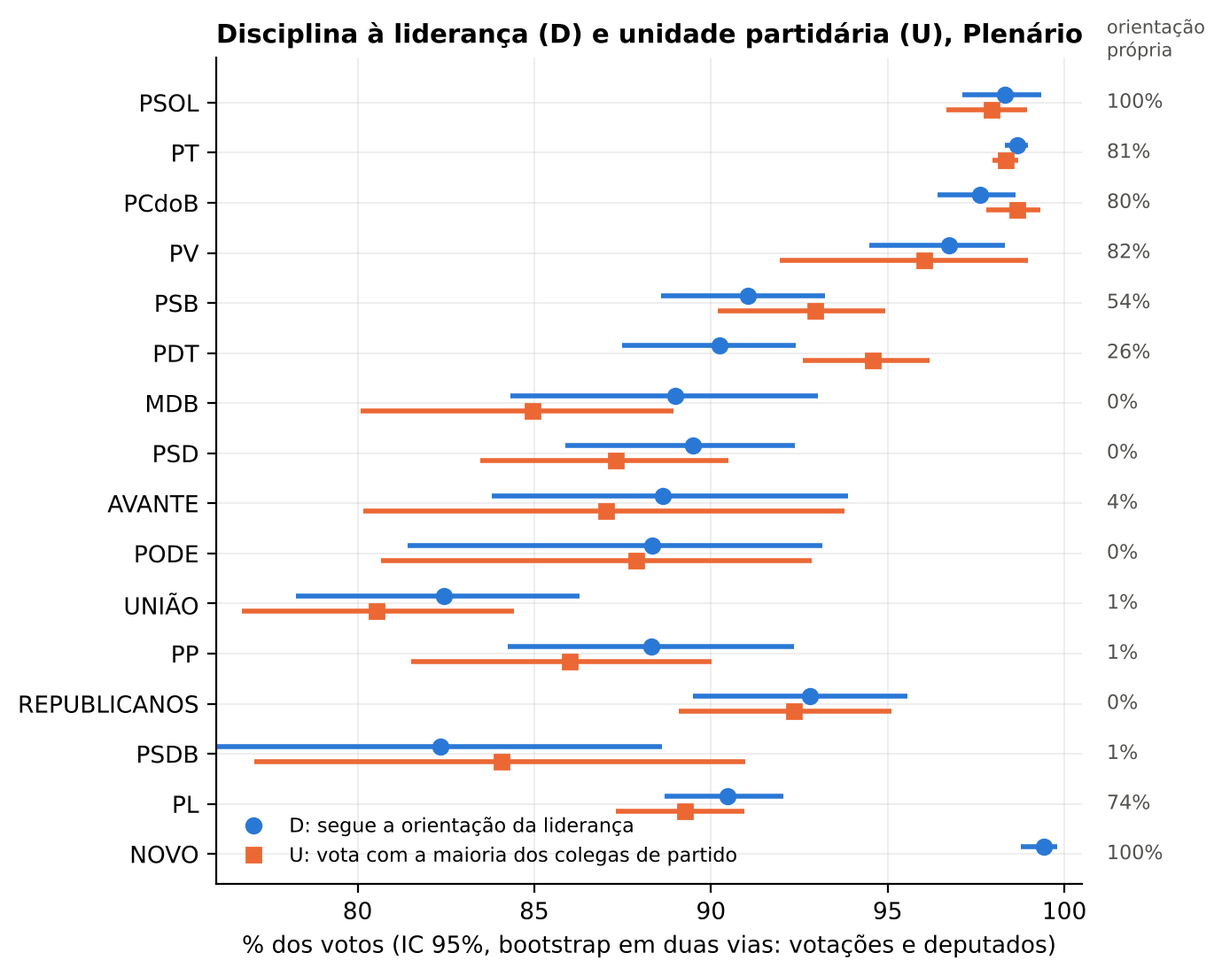
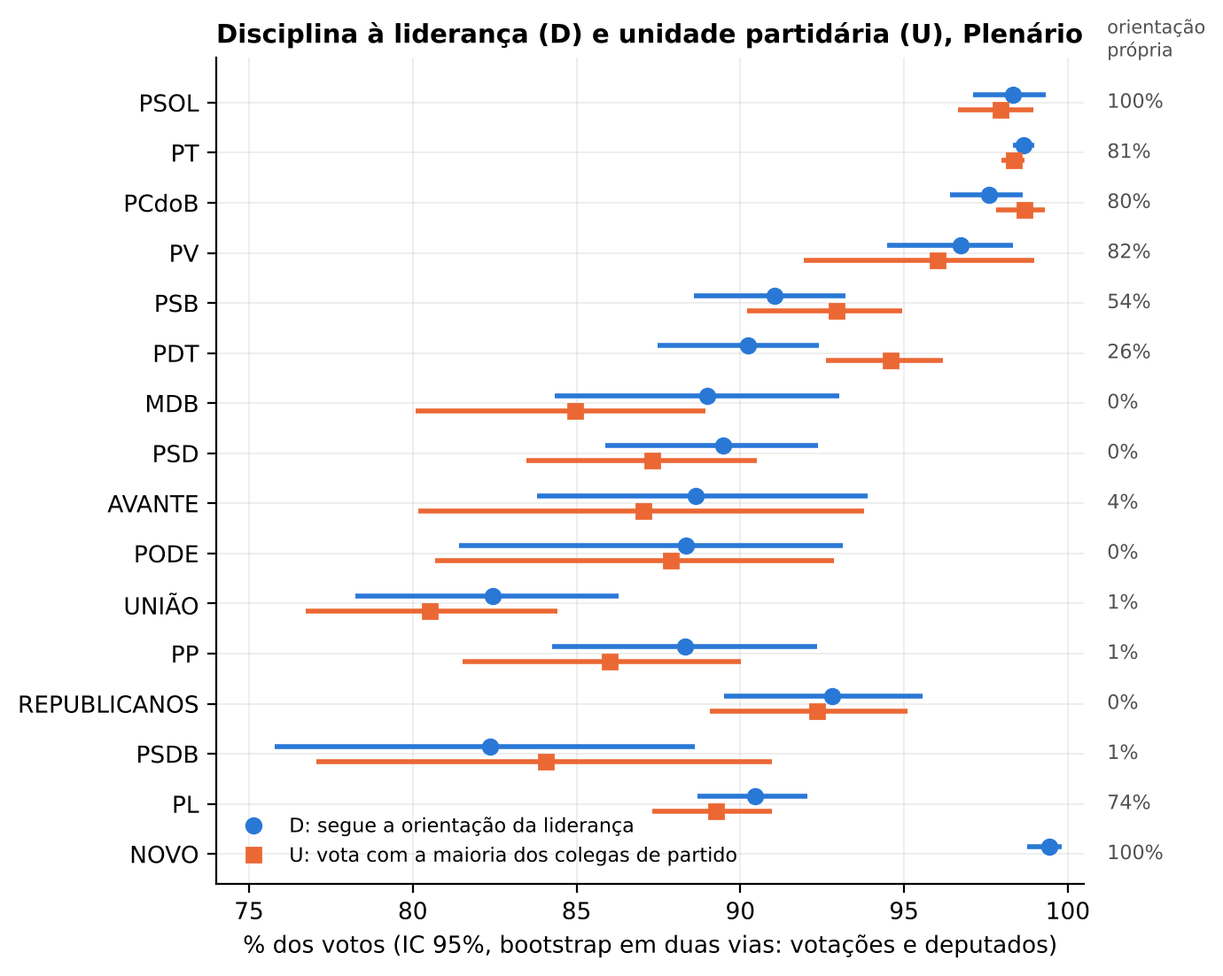
Artigo 2: correções da rodada 2 do stage 4.5 (controles da coorte, eixo da Fig. 2, definições e remissões)
Claude-Session: https://claude.ai/code/session_017sdP2rNFympvPWcSDWQFN7

diff --git a/artigos/02-disciplina-intrapartidaria/analise.py b/artigos/02-disciplina-intrapartidaria/analise.py
@@ -1352,7 +1352,9 @@ def estudo_evento(base, dep):
     # (Sun e Abraham, 2021: com adoção escalonada, tratados antigos não devem servir de controle;
     # aqui os demais trocadores são retirados da amostra e os controles são os que nunca trocaram)
     ind26 = ind[(ind >= "2026-03-01") & (ind < "2026-06-01")]
-    excl26 = set(ind.index) - set(ind26.index) | set(fus.index)
+    # controles da coorte: só quem nunca trocou individualmente (inclusive antes de abril de 2023)
+    todos_ind = set(trocas_partido().query("~fusao")["deputado_id"])
+    excl26 = (todos_ind | set(ind.index)) - set(ind26.index) | set(fus.index)
     num("ev_c26_n_coorte", len(ind26))
     versoes = [("", ind, fus, set()), ("_c26", ind26, fus.iloc[:0], excl26)]
     for suf, ind_v, fus_v, excl in versoes:
@@ -2063,7 +2065,7 @@ def fig_disciplina(tab):
         ax.text(101.2, yy, f"{pct(r['share_propria'], 0)}%", va="center", ha="left", fontsize=8, color=COR["texto2"])
     ax.text(101.2, len(t) - 0.2, "orientação\nprópria", fontsize=7.5, color=COR["texto2"], va="bottom")
     ax.set_yticks(y, t.index)
-    ax.set_xlim(76, 100.5)
+    ax.set_xlim(min(76, np.floor(np.nanmin(t[["D_lo2", "U_lo2"]].to_numpy()) * 100) - 1), 100.5)
     ax.set_xlabel("% dos votos (IC 95%, bootstrap em duas vias: votações e deputados)")
     ax.legend(loc="lower left", fontsize=8)
     ax.set_title("Disciplina à liderança (D) e unidade partidária (U), Plenário")

diff --git a/artigos/02-disciplina-intrapartidaria/artigo_fonte.md b/artigos/02-disciplina-intrapartidaria/artigo_fonte.md
@@ -20,7 +20,7 @@ A contribuição de estrutura é um teste fora da amostra. Comparamos uma sequê
 
 ## 2. Literatura e expectativas
 
-**Disciplina, coesão e agenda.** O índice de Rice (Rice, 1925) mede a coesão de um grupo numa votação. Ele é inflado em grupos pequenos (Desposato, 2005) e confunde coesão com consenso, o que leva a restringir a análise a votações disputadas ou a ponderar pela disputa. Carey (2007; 2009) mostra que a unidade de voto é menor onde "principais concorrentes" — eleitores, governadores, o presidente — disputam a lealdade do legislador; seguindo Krehbiel (1993), distinguimos *unidade* (votar junto) de *disciplina* (votar com o líder contra a própria preferência). No Brasil, Figueiredo e Limongi (1999) atribuem a disciplina à centralização dos trabalhos no Colégio de Líderes combinada aos poderes de agenda do Executivo, como medidas provisórias e pedidos de urgência (resumo de fontes secundárias; a lista completa dos instrumentos no original fica [verificar]). Amorim Neto, Cox e McCubbins (2003) analisam o poder de agenda das coalizões na Câmara. Pereira e Mueller (2004) ligam o voto com o Governo à execução de emendas orçamentárias. Cheibub, Figueiredo e Limongi (2009) discutem partidos e governadores como determinantes do comportamento legislativo. Nicolau (2000) documenta a disciplina no primeiro governo Fernando Henrique. A coesão observada é também produto da agenda (Cox e McCubbins, 2005) e da seleção de quais votações são nominais (Carrubba, Gabel e Hug, 2008): só {{pct:share_plen_nominais}}% das {{int:n_votacoes_plen_todas}} votações de Plenário da legislatura tiveram votos nominais.
+**Disciplina, coesão e agenda.** O índice de Rice (Rice, 1925) mede a coesão de um grupo numa votação. Ele é inflado em grupos pequenos (Desposato, 2005) e confunde coesão com consenso, o que leva a restringir a análise a votações disputadas ou a ponderar pela disputa. Carey (2007; 2009) mostra que a unidade de voto é menor onde "principais concorrentes" — eleitores, governadores, o presidente — disputam a lealdade do legislador; seguindo Krehbiel (1993), distinguimos *unidade* (votar junto) de *disciplina* no sentido estrito (votar com o líder contra a própria preferência). A medida D adiante é adesão à orientação; só o excesso de lealdade da seção 5.8 aproxima o componente contra a preferência. No Brasil, Figueiredo e Limongi (1999) atribuem a disciplina à centralização dos trabalhos no Colégio de Líderes combinada aos poderes de agenda do Executivo, como medidas provisórias e pedidos de urgência (resumo de fontes secundárias; a lista completa dos instrumentos no original fica [verificar]). Amorim Neto, Cox e McCubbins (2003) analisam o poder de agenda das coalizões na Câmara. Pereira e Mueller (2004) ligam o voto com o Governo à execução de emendas orçamentárias. Cheibub, Figueiredo e Limongi (2009) discutem partidos e governadores como determinantes do comportamento legislativo. Nicolau (2000) documenta a disciplina no primeiro governo Fernando Henrique. A coesão observada é também produto da agenda (Cox e McCubbins, 2005) e da seleção de quais votações são nominais (Carrubba, Gabel e Hug, 2008): só {{pct:share_plen_nominais}}% das {{int:n_votacoes_plen_todas}} votações de Plenário da legislatura tiveram votos nominais.
 
 **Preferência ou partido.** Krehbiel (1993) argumenta que coesão não prova influência do partido. Snyder e Groseclose (2000) comparam votações disputadas e lopsided para estimar a pressão partidária, e McCarty, Poole e Rosenthal (2001) modelam linhas de corte por partido. Clinton, Jackman e Rivers (2004) formalizam a estimação de pontos ideais; Bafumi et al. (2005) e Lauderdale (2010) tratam de identificação e de votantes imprevisíveis. Zucco (2009) e Zucco e Lauderdale (2011) mostram que o comportamento dos deputados brasileiros responde a influências do Executivo além da ideologia; Power e Zucco (2009) fornecem âncoras de ideologia partidária. Minozzi e Volden (2013) estudam quem atende ao chamado do partido. Sobre trocas de partido, Desposato (2006) explica as migrações na Câmara por ambição e ideologia, Heller e Mershon (2005) as estudam na Itália, e Nokken (2000) estuda a dinâmica da lealdade e da defecção de legisladores no Congresso americano, inclusive dos que trocam de partido. Black (1948) e Krehbiel (1998) justificam olhar o mediano e os pivôs de maioria qualificada.
 
@@ -73,7 +73,7 @@ Usamos o estimador de pontos ideais do projeto (regressão logística bilinear p
 
 $$\Pr(y_{ij}=1)=\sigma\big(a_j + g_{pj} + \mathbf{b}_j^\top \mathbf{x}_{r}\big),\qquad \mathbf{x}_r=\mathbf{u}_{i}+\boldsymbol{\delta}_r,$$
 
-com penalidades gaussianas e excluídas as votações com minoria abaixo de 2,5%. O modelo **global** omite $g$. O **intrapartidário** inclui o efeito fixo partido×votação $g_{pj}$, que absorve a posição do partido em cada votação, e centra os pontos dentro de cada partido. A amostra tem {{int:irt_n_votos}} votos, {{int:irt_n_votacoes}} votações, {{int:irt_n_periodos}} períodos deputado×partido e {{int:irt_n_celulas}} células partido×votação, com mediana de {{d1:irt_celulas_mediana_votantes}} votantes por célula e {{pct0:irt_celulas_share_menos5}}% delas com menos de cinco.
+com penalidades gaussianas (as do estimador do projeto; $\lambda_d = 4$ para os desvios por período) e excluídas as votações com minoria abaixo de 2,5%. O modelo **global** omite $g$. O **intrapartidário** inclui o efeito fixo partido×votação $g_{pj}$, que absorve a posição do partido em cada votação, e centra os pontos dentro de cada partido. A amostra tem {{int:irt_n_votos}} votos, {{int:irt_n_votacoes}} votações, {{int:irt_n_periodos}} períodos deputado×partido e {{int:irt_n_celulas}} células partido×votação, com mediana de {{d1:irt_celulas_mediana_votantes}} votantes por célula e {{pct0:irt_celulas_share_menos5}}% delas com menos de cinco.
 
 ### 4.3 Ruído ou estrutura
 
@@ -82,7 +82,7 @@ Os modelos abaixo são comparados na previsão de votos retirados: validação c
 - **M0**: a regra "segue a orientação" (sem orientação, a maioria de treino do partido ou da votação), com probabilidade calibrada pelo acerto no treino; **M0c** calibra por partido e fonte.
 - **M1**: só $a_j+g_{pj}$, a posição coletiva do partido em cada votação, estimada com os votos dos colegas na mesma votação.
 - **M2**: M1 mais uma lealdade individual sem direção, $\sigma(z^{M1}+\rho_i d_{pj})$, com $d_{pj}=\pm1$ conforme a maioria de treino da célula.
-- **M2b**: lealdade por período com escala por votação, $\sigma(z^{M1}+s_j\rho_r d_{pj})$. Tem a mesma estrutura de parâmetros de M3, mas a direção do desvio é fixada como "contra a maioria do próprio partido".
+- **M2b**: lealdade por período com escala por votação, $\sigma(z^{M1}+s_j\rho_r d_{pj})$, com penalidades $\lambda_\rho = 1$ e $\lambda_s = 0{,}04$. Tem a mesma estrutura de parâmetros de M3, mas a direção do desvio é fixada como "contra a maioria do próprio partido".
 - **M3** e **M4**: o modelo intrapartidário com uma e duas dimensões. **M3L** acrescenta a M3 o termo $\rho_i d_{pj}$.
 - **M5**: o modelo global de duas dimensões, sem partido.
 
@@ -111,7 +111,7 @@ Os erros-padrão (EP) são agrupados por deputado e por votação (Cameron, Gelb
 
 ### 5.1 O que a orientação registrada mede
 
-A disciplina é de {{pct:disc_camada_própria}}% sob orientação própria, {{pct:disc_camada_bloco}}% sob bloco e {{pct:disc_camada_bloco inferido}}% sob bloco inferido. Para União, PP, PSD, MDB, REPUBLICANOS, PODE e PSDB, menos de 2% dos votos estão sob orientação do próprio partido (Figura 1, coluna à direita): o que se chama de disciplina partidária, nesses partidos, é disciplina ao líder do bloco.
+A disciplina é de {{pct:disc_camada_própria}}% sob orientação própria, {{pct:disc_camada_bloco}}% sob bloco e {{pct:disc_camada_bloco inferido}}% sob bloco inferido. Para União, PP, PSD, MDB, REPUBLICANOS, PODE e PSDB, menos de 2% dos votos estão sob orientação do próprio partido (Figura 2, coluna à direita): o que se chama de disciplina partidária, nesses partidos, é disciplina ao líder do bloco.
 
 O registro de 2025 é o caso extremo. Em D, a disciplina sobe para {{pct:disc_ano_2025}}% em 2025, contra {{pct:disc_ano_2023}}% em 2023, mas a cobertura de D cai a {{pct0:cobD_ano_2025}}%, contra {{pct0:cobD_ano_2023}}% (Figura 1). Nas votações do megabloco, o registro sempre traz as linhas de Governo, Maioria, Minoria e Oposição ({{int:reg_mb_linhas_oposicao}} linhas de Oposição em {{int:megabloco_n_votacoes}} votações), mas nenhuma linha própria do PL ou da federação do PT. As transcrições, porém, mostram esses partidos orientando: as orientações faladas cobrem {{int:fala_mb_votacoes}} das {{int:fala_mb_votacoes_total}} votações do megabloco. Orientação vazia, portanto, nem sempre quer dizer que a liderança não orientou; pode ser um limite do registro.
 
@@ -132,7 +132,7 @@ PL ({{pct:U_2025_PL}}% em 2025, contra {{pct:U_outros_PL}}%), PT e REPUBLICANOS 
 
 ### 5.2 Quanta disciplina
 
-A disciplina à liderança no Plenário é de {{pct:disc_geral}}% (IC 95%: {{pct:disc_geral_lo}}–{{pct:disc_geral_hi}}), e a unidade, de {{pct:unidade_geral}}% (Tabela 2, Figura 2).
+A disciplina à liderança no Plenário é de {{pct:disc_geral}}% (IC 95% por bootstrap de votações: {{pct:disc_geral_lo}}–{{pct:disc_geral_hi}}), e a unidade, de {{pct:unidade_geral}}% (Tabela 2, Figura 2).
 
 - **Extremo mais coeso:** PT, PSOL, PCdoB e NOVO votam quase sempre com a liderança, e os três primeiros, também com os colegas (NOVO não tem U) (U de {{pct:U_PT}}% no PT e {{pct:U_PSOL}}% no PSOL).
 - **Extremo menos coeso:** União (U {{pct:U_UNIÃO}}%) e PSDB ({{pct:U_PSDB}}%).
@@ -235,7 +235,7 @@ A variância das taxas brutas de desvio entre deputados é quase toda sinal: o r
 
 A Figura 6 mostra o estudo de evento para {{int:ev_n_trocadores_ind}} deputados com troca individual.
 
-- **Antes da troca:** na janela de referência, os futuros trocadores contrariam a maioria dos colegas em {{pct:ev_U_desvio_ref}}% dos votos. Nenhum coeficiente anterior se distingue de zero individualmente ({{pp:ev_U_ind:≤−13_coef}}, {{pp:ev_U_ind:−6 a −4_coef}} e {{pp:ev_U_ind:−3 a −1_coef}} pontos), mas o teste conjunto é limítrofe (p = {{d2:ev_U_pre_p}}). As estimativas pontuais sobem {{pp:ev_U_subida_pre}} pontos ao longo do ano anterior à troca: há uma pré-tendência fraca, compatível com saída anunciada.
+- **Antes da troca:** na janela de referência, os futuros trocadores contrariam a maioria dos colegas em {{pct:ev_U_desvio_ref}}% dos votos. Nenhum coeficiente anterior se distingue de zero individualmente ({{pp:ev_U_ind:≤−13_coef}}, {{pp:ev_U_ind:−6 a −4_coef}} e {{pp:ev_U_ind:−3 a −1_coef}} pontos), mas o teste conjunto é limítrofe (p = {{d2:ev_U_pre_p}}). A estimativa de −3 a −1 meses fica {{pp:ev_U_subida_pre}} pontos acima da de 13 meses ou mais antes: há uma pré-tendência fraca, compatível com saída anunciada.
 - **Depois da troca:** o desvio em relação à maioria dos novos colegas cai {{pp:ev_U_ind:0 a 3_negcoef}} pontos nos primeiros três meses (IC {{pp:ev_U_ind:0 a 3_neglo}}–{{pp:ev_U_ind:0 a 3_neghi}}) na versão com todas as trocas.
 - **Só a coorte da janela de 2026** ({{int:ev_c26_n_coorte}} deputados, com controles que nunca trocaram): a queda é de {{pp:ev_c26_U_ind:0 a 3_negcoef}} pontos (IC {{pp:ev_c26_U_ind:0 a 3_neglo}}–{{pp:ev_c26_U_ind:0 a 3_neghi}}), com teste conjunto de pré-tendência também limítrofe (p = {{d2:ev_c26_U_pre_p}}). É a estimativa preferível, porque evita usar trocadores antigos como controles; a da versão completa é maior. Em D, nessa coorte, a queda ({{pp:ev_c26_D_ind:0 a 3_negcoef}} pontos) não se distingue de zero.
 - **Fusões:** não servem de placebo. Em U, as bancadas pré-fusão nunca reuniam cinco colegas votando, e os coeficientes não são identificados.
@@ -290,7 +290,7 @@ A Tabela 8 refaz a disciplina sob sete variantes de medida. Sem as orientações
 
 ## 8. Discussão
 
-O primeiro achado é de medida. Na Câmara de 2023–2026, a orientação aplicável à maioria dos deputados do centro é a do bloco, e o registro da Câmara não guarda as orientações que os partidos dão em Plenário quando a bancada formal é um bloco. Em 2025, o resultado foi um registro quase vazio para a maior parte da Casa e uma disciplina "medida" que sobe justamente quando a unidade dos partidos de centro cai. Quem usa os dados públicos deve, por isso, estratificar pela fonte da orientação, reportar a cobertura e complementar o registro com uma medida que não dependa dele. Para a própria Câmara, registrar as orientações partidárias dentro dos blocos, que os líderes anunciam em Plenário, tornaria os dados abertos mais fiéis ao processo que pretendem descrever.
+O primeiro achado é de medida. Na Câmara de 2023–2026, a orientação aplicável à maioria dos deputados do centro é a do bloco, e o registro da Câmara não guarda as orientações que os partidos dão em Plenário quando a bancada formal é um bloco. Em 2025, o resultado foi um registro quase vazio para a maior parte da Casa e uma disciplina "medida" que sobe justamente quando a unidade de quatro partidos de centro cai. Quem usa os dados públicos deve, por isso, estratificar pela fonte da orientação, reportar a cobertura e complementar o registro com uma medida que não dependa dele. Para a própria Câmara, registrar as orientações partidárias dentro dos blocos, que os líderes anunciam em Plenário, tornaria os dados abertos mais fiéis ao processo que pretendem descrever.
 
 O segundo achado é que a indisciplina tem estrutura, mas pouca. A posição do partido em cada votação é de longe a melhor informação sobre o voto, e a propensão individual a desviar acrescenta mais do que a direção do desvio. A direção, porém, conta: prevê o voto fora da amostra além da propensão a desviar. Ela coincide com o eixo governo–oposição que separa os partidos entre si. Por isso os partidos do centro são, ao mesmo tempo, os mais heterogêneos e os pivôs da Casa: uma hipótese, que não testamos, é que essa heterogeneidade permita ao Governo construir maiorias votação a votação com parte de suas bancadas. A influência do partido além das preferências existe, porque o excesso de lealdade nas divergências com o Governo é positivo nos dois contrafactuais; sua magnitude, porém, depende de como se mede a preferência. A troca de partido mostra sinais tanto de seleção quanto de ajuste aos novos colegas.
 
@@ -351,7 +351,7 @@ McCARTY, Nolan; POOLE, Keith T.; ROSENTHAL, Howard. The Hunt for Party Disciplin
 
 MINOZZI, William; VOLDEN, Craig. Who Heeds the Call of the Party in Congress? *The Journal of Politics*, v. 75, n. 3, p. 787–802, 2013.
 
-NICOLAU, Jairo. Disciplina partidária e base parlamentar na Câmara dos Deputados no primeiro governo Fernando Henrique Cardoso (1995-1998). *Dados*, v. 43, n. 4, 2000. [verificar páginas]
+NICOLAU, Jairo. Disciplina partidária e base parlamentar na Câmara dos Deputados no primeiro governo Fernando Henrique Cardoso (1995-1998). *Dados*, v. 43, n. 4, p. 709–735, 2000. [verificar páginas]
 
 NOKKEN, Timothy P. Dynamics of Congressional Loyalty: Party Defection and Roll-Call Behavior, 1947–97. *Legislative Studies Quarterly*, v. 25, n. 3, p. 417–444, 2000.
 
@@ -376,9 +376,9 @@ Rodado da raiz do repositório, `python artigos/02-disciplina-intrapartidaria/an
 - `dados/leg57/*.parquet`;
 - os embeddings do projeto, usados só para a reconciliação do Apêndice C;
 - o cache de temas da API (`dados_aux/temas_proposicoes_votadas.csv`);
-- a codificação manual dos tipos de votação (`dados_aux/validacao_tipo_votacao.csv`).
+- as codificações feitas pelo assistente de IA para validar o classificador de tipo de votação (`dados_aux/validacao_tipo_votacao.csv`) e as associações fala→votação (`dados_aux/validacao_falas.csv`).
 
-Com isso, grava `resultados.json` ({{int:n_chaves}} números), `tabelas/*.md` e `figuras/*.png`, e monta este `artigo.md` a partir de `artigo_fonte.md`: cada número do texto é uma referência a `resultados.json`. Os ajustes de pontos ideais ficam em cache em `dados_aux/cache/`, fora do git. Sem cache, a execução levou cerca de 11 minutos em 4 núcleos numa reexecução de verificação (Stage 2.5); com cache, {{int:tempo_execucao_s}} segundos. As sementes são fixas. Versões usadas: {{raw:versoes}}.
+Com isso, grava `resultados.json` ({{int:n_chaves}} números), `tabelas/*.md` e `figuras/*.png`, e monta este `artigo.md` a partir de `artigo_fonte.md`: cada número calculado no texto é uma referência a `resultados.json`; os poucos números escritos à mão (limiares, parâmetros de método) estão definidos no próprio texto ou no código. Os ajustes de pontos ideais ficam em cache em `dados_aux/cache/`, fora do git. Sem cache, a execução levou cerca de 11 minutos em 4 núcleos numa reexecução de verificação (Stage 2.5); com cache, {{int:tempo_execucao_s}} segundos. As sementes são fixas. Versões usadas: {{raw:versoes}}.
 
 Dados e código estão no repositório do projeto. Este artigo é um de sete trabalhos do mesmo projeto sobre a 57ª Legislatura; os demais tratam de outras dimensões dos deputados (temas, frentes, discursos, trajetórias). O plano de análise está em `pipeline/stage1_blueprint.md`, a verificação de integridade em `pipeline/stage2_5_integridade.md` e a revisão por pares em `pipeline/stage3_revisao.md`.
 

diff --git a/artigos/02-disciplina-intrapartidaria/artigo.md b/artigos/02-disciplina-intrapartidaria/artigo.md
@@ -21,7 +21,7 @@ A contribuição de estrutura é um teste fora da amostra. Comparamos uma sequê
 
 ## 2. Literatura e expectativas
 
-**Disciplina, coesão e agenda.** O índice de Rice (Rice, 1925) mede a coesão de um grupo numa votação. Ele é inflado em grupos pequenos (Desposato, 2005) e confunde coesão com consenso, o que leva a restringir a análise a votações disputadas ou a ponderar pela disputa. Carey (2007; 2009) mostra que a unidade de voto é menor onde "principais concorrentes" — eleitores, governadores, o presidente — disputam a lealdade do legislador; seguindo Krehbiel (1993), distinguimos *unidade* (votar junto) de *disciplina* (votar com o líder contra a própria preferência). No Brasil, Figueiredo e Limongi (1999) atribuem a disciplina à centralização dos trabalhos no Colégio de Líderes combinada aos poderes de agenda do Executivo, como medidas provisórias e pedidos de urgência (resumo de fontes secundárias; a lista completa dos instrumentos no original fica [verificar]). Amorim Neto, Cox e McCubbins (2003) analisam o poder de agenda das coalizões na Câmara. Pereira e Mueller (2004) ligam o voto com o Governo à execução de emendas orçamentárias. Cheibub, Figueiredo e Limongi (2009) discutem partidos e governadores como determinantes do comportamento legislativo. Nicolau (2000) documenta a disciplina no primeiro governo Fernando Henrique. A coesão observada é também produto da agenda (Cox e McCubbins, 2005) e da seleção de quais votações são nominais (Carrubba, Gabel e Hug, 2008): só 16,5% das 6.855 votações de Plenário da legislatura tiveram votos nominais.
+**Disciplina, coesão e agenda.** O índice de Rice (Rice, 1925) mede a coesão de um grupo numa votação. Ele é inflado em grupos pequenos (Desposato, 2005) e confunde coesão com consenso, o que leva a restringir a análise a votações disputadas ou a ponderar pela disputa. Carey (2007; 2009) mostra que a unidade de voto é menor onde "principais concorrentes" — eleitores, governadores, o presidente — disputam a lealdade do legislador; seguindo Krehbiel (1993), distinguimos *unidade* (votar junto) de *disciplina* no sentido estrito (votar com o líder contra a própria preferência). A medida D adiante é adesão à orientação; só o excesso de lealdade da seção 5.8 aproxima o componente contra a preferência. No Brasil, Figueiredo e Limongi (1999) atribuem a disciplina à centralização dos trabalhos no Colégio de Líderes combinada aos poderes de agenda do Executivo, como medidas provisórias e pedidos de urgência (resumo de fontes secundárias; a lista completa dos instrumentos no original fica [verificar]). Amorim Neto, Cox e McCubbins (2003) analisam o poder de agenda das coalizões na Câmara. Pereira e Mueller (2004) ligam o voto com o Governo à execução de emendas orçamentárias. Cheibub, Figueiredo e Limongi (2009) discutem partidos e governadores como determinantes do comportamento legislativo. Nicolau (2000) documenta a disciplina no primeiro governo Fernando Henrique. A coesão observada é também produto da agenda (Cox e McCubbins, 2005) e da seleção de quais votações são nominais (Carrubba, Gabel e Hug, 2008): só 16,5% das 6.855 votações de Plenário da legislatura tiveram votos nominais.
 
 **Preferência ou partido.** Krehbiel (1993) argumenta que coesão não prova influência do partido. Snyder e Groseclose (2000) comparam votações disputadas e lopsided para estimar a pressão partidária, e McCarty, Poole e Rosenthal (2001) modelam linhas de corte por partido. Clinton, Jackman e Rivers (2004) formalizam a estimação de pontos ideais; Bafumi et al. (2005) e Lauderdale (2010) tratam de identificação e de votantes imprevisíveis. Zucco (2009) e Zucco e Lauderdale (2011) mostram que o comportamento dos deputados brasileiros responde a influências do Executivo além da ideologia; Power e Zucco (2009) fornecem âncoras de ideologia partidária. Minozzi e Volden (2013) estudam quem atende ao chamado do partido. Sobre trocas de partido, Desposato (2006) explica as migrações na Câmara por ambição e ideologia, Heller e Mershon (2005) as estudam na Itália, e Nokken (2000) estuda a dinâmica da lealdade e da defecção de legisladores no Congresso americano, inclusive dos que trocam de partido. Black (1948) e Krehbiel (1998) justificam olhar o mediano e os pivôs de maioria qualificada.
 
@@ -86,7 +86,7 @@ Usamos o estimador de pontos ideais do projeto (regressão logística bilinear p
 
 $$\Pr(y_{ij}=1)=\sigma\big(a_j + g_{pj} + \mathbf{b}_j^\top \mathbf{x}_{r}\big),\qquad \mathbf{x}_r=\mathbf{u}_{i}+\boldsymbol{\delta}_r,$$
 
-com penalidades gaussianas e excluídas as votações com minoria abaixo de 2,5%. O modelo **global** omite $g$. O **intrapartidário** inclui o efeito fixo partido×votação $g_{pj}$, que absorve a posição do partido em cada votação, e centra os pontos dentro de cada partido. A amostra tem 417.832 votos, 1.039 votações, 828 períodos deputado×partido e 20.759 células partido×votação, com mediana de 11,0 votantes por célula e 27% delas com menos de cinco.
+com penalidades gaussianas (as do estimador do projeto; $\lambda_d = 4$ para os desvios por período) e excluídas as votações com minoria abaixo de 2,5%. O modelo **global** omite $g$. O **intrapartidário** inclui o efeito fixo partido×votação $g_{pj}$, que absorve a posição do partido em cada votação, e centra os pontos dentro de cada partido. A amostra tem 417.832 votos, 1.039 votações, 828 períodos deputado×partido e 20.759 células partido×votação, com mediana de 11,0 votantes por célula e 27% delas com menos de cinco.
 
 ### 4.3 Ruído ou estrutura
 
@@ -95,7 +95,7 @@ Os modelos abaixo são comparados na previsão de votos retirados: validação c
 - **M0**: a regra "segue a orientação" (sem orientação, a maioria de treino do partido ou da votação), com probabilidade calibrada pelo acerto no treino; **M0c** calibra por partido e fonte.
 - **M1**: só $a_j+g_{pj}$, a posição coletiva do partido em cada votação, estimada com os votos dos colegas na mesma votação.
 - **M2**: M1 mais uma lealdade individual sem direção, $\sigma(z^{M1}+\rho_i d_{pj})$, com $d_{pj}=\pm1$ conforme a maioria de treino da célula.
-- **M2b**: lealdade por período com escala por votação, $\sigma(z^{M1}+s_j\rho_r d_{pj})$. Tem a mesma estrutura de parâmetros de M3, mas a direção do desvio é fixada como "contra a maioria do próprio partido".
+- **M2b**: lealdade por período com escala por votação, $\sigma(z^{M1}+s_j\rho_r d_{pj})$, com penalidades $\lambda_\rho = 1$ e $\lambda_s = 0{,}04$. Tem a mesma estrutura de parâmetros de M3, mas a direção do desvio é fixada como "contra a maioria do próprio partido".
 - **M3** e **M4**: o modelo intrapartidário com uma e duas dimensões. **M3L** acrescenta a M3 o termo $\rho_i d_{pj}$.
 - **M5**: o modelo global de duas dimensões, sem partido.
 
@@ -124,7 +124,7 @@ Os erros-padrão (EP) são agrupados por deputado e por votação (Cameron, Gelb
 
 ### 5.1 O que a orientação registrada mede
 
-A disciplina é de 94,9% sob orientação própria, 87,2% sob bloco e 88,0% sob bloco inferido. Para União, PP, PSD, MDB, REPUBLICANOS, PODE e PSDB, menos de 2% dos votos estão sob orientação do próprio partido (Figura 1, coluna à direita): o que se chama de disciplina partidária, nesses partidos, é disciplina ao líder do bloco.
+A disciplina é de 94,9% sob orientação própria, 87,2% sob bloco e 88,0% sob bloco inferido. Para União, PP, PSD, MDB, REPUBLICANOS, PODE e PSDB, menos de 2% dos votos estão sob orientação do próprio partido (Figura 2, coluna à direita): o que se chama de disciplina partidária, nesses partidos, é disciplina ao líder do bloco.
 
 O registro de 2025 é o caso extremo. Em D, a disciplina sobe para 92,9% em 2025, contra 90,1% em 2023, mas a cobertura de D cai a 32%, contra 89% (Figura 1). Nas votações do megabloco, o registro sempre traz as linhas de Governo, Maioria, Minoria e Oposição (227 linhas de Oposição em 227 votações), mas nenhuma linha própria do PL ou da federação do PT. As transcrições, porém, mostram esses partidos orientando: as orientações faladas cobrem 138 das 227 votações do megabloco. Orientação vazia, portanto, nem sempre quer dizer que a liderança não orientou; pode ser um limite do registro.
 
@@ -145,7 +145,7 @@ PL (90,3% em 2025, contra 88,7%), PT e REPUBLICANOS ficam estáveis. Fixando a c
 
 ### 5.2 Quanta disciplina
 
-A disciplina à liderança no Plenário é de 90,9% (IC 95%: 90,4–91,3), e a unidade, de 89,5% (Tabela 2, Figura 2).
+A disciplina à liderança no Plenário é de 90,9% (IC 95% por bootstrap de votações: 90,4–91,3), e a unidade, de 89,5% (Tabela 2, Figura 2).
 
 - **Extremo mais coeso:** PT, PSOL, PCdoB e NOVO votam quase sempre com a liderança, e os três primeiros, também com os colegas (NOVO não tem U) (U de 98,3% no PT e 97,9% no PSOL).
 - **Extremo menos coeso:** União (U 80,5%) e PSDB (84,1%).
@@ -357,9 +357,9 @@ A variância das taxas brutas de desvio entre deputados é quase toda sinal: o r
 
 A Figura 6 mostra o estudo de evento para 173 deputados com troca individual.
 
-- **Antes da troca:** na janela de referência, os futuros trocadores contrariam a maioria dos colegas em 20,6% dos votos. Nenhum coeficiente anterior se distingue de zero individualmente (−1,7, −0,9 e 1,4 pontos), mas o teste conjunto é limítrofe (p = 0,10). As estimativas pontuais sobem 3,1 pontos ao longo do ano anterior à troca: há uma pré-tendência fraca, compatível com saída anunciada.
+- **Antes da troca:** na janela de referência, os futuros trocadores contrariam a maioria dos colegas em 20,6% dos votos. Nenhum coeficiente anterior se distingue de zero individualmente (−1,7, −0,9 e 1,4 pontos), mas o teste conjunto é limítrofe (p = 0,10). A estimativa de −3 a −1 meses fica 3,1 pontos acima da de 13 meses ou mais antes: há uma pré-tendência fraca, compatível com saída anunciada.
 - **Depois da troca:** o desvio em relação à maioria dos novos colegas cai 11,1 pontos nos primeiros três meses (IC 6,5–15,6) na versão com todas as trocas.
-- **Só a coorte da janela de 2026** (129 deputados, com controles que nunca trocaram): a queda é de 6,5 pontos (IC 2,4–10,5), com teste conjunto de pré-tendência também limítrofe (p = 0,10). É a estimativa preferível, porque evita usar trocadores antigos como controles; a da versão completa é maior. Em D, nessa coorte, a queda (3,1 pontos) não se distingue de zero.
+- **Só a coorte da janela de 2026** (129 deputados, com controles que nunca trocaram): a queda é de 6,5 pontos (IC 2,4–10,6), com teste conjunto de pré-tendência também limítrofe (p = 0,11). É a estimativa preferível, porque evita usar trocadores antigos como controles; a da versão completa é maior. Em D, nessa coorte, a queda (3,1 pontos) não se distingue de zero.
 - **Fusões:** não servem de placebo. Em U, as bancadas pré-fusão nunca reuniam cinco colegas votando, e os coeficientes não são identificados.
 
 **Seleção ou ajuste?** Estes números vêm dos 145 deputados com pontos nos dois partidos:
@@ -425,7 +425,7 @@ A Tabela 8 refaz a disciplina sob sete variantes de medida. Sem as orientações
 
 ## 8. Discussão
 
-O primeiro achado é de medida. Na Câmara de 2023–2026, a orientação aplicável à maioria dos deputados do centro é a do bloco, e o registro da Câmara não guarda as orientações que os partidos dão em Plenário quando a bancada formal é um bloco. Em 2025, o resultado foi um registro quase vazio para a maior parte da Casa e uma disciplina "medida" que sobe justamente quando a unidade dos partidos de centro cai. Quem usa os dados públicos deve, por isso, estratificar pela fonte da orientação, reportar a cobertura e complementar o registro com uma medida que não dependa dele. Para a própria Câmara, registrar as orientações partidárias dentro dos blocos, que os líderes anunciam em Plenário, tornaria os dados abertos mais fiéis ao processo que pretendem descrever.
+O primeiro achado é de medida. Na Câmara de 2023–2026, a orientação aplicável à maioria dos deputados do centro é a do bloco, e o registro da Câmara não guarda as orientações que os partidos dão em Plenário quando a bancada formal é um bloco. Em 2025, o resultado foi um registro quase vazio para a maior parte da Casa e uma disciplina "medida" que sobe justamente quando a unidade de quatro partidos de centro cai. Quem usa os dados públicos deve, por isso, estratificar pela fonte da orientação, reportar a cobertura e complementar o registro com uma medida que não dependa dele. Para a própria Câmara, registrar as orientações partidárias dentro dos blocos, que os líderes anunciam em Plenário, tornaria os dados abertos mais fiéis ao processo que pretendem descrever.
 
 O segundo achado é que a indisciplina tem estrutura, mas pouca. A posição do partido em cada votação é de longe a melhor informação sobre o voto, e a propensão individual a desviar acrescenta mais do que a direção do desvio. A direção, porém, conta: prevê o voto fora da amostra além da propensão a desviar. Ela coincide com o eixo governo–oposição que separa os partidos entre si. Por isso os partidos do centro são, ao mesmo tempo, os mais heterogêneos e os pivôs da Casa: uma hipótese, que não testamos, é que essa heterogeneidade permita ao Governo construir maiorias votação a votação com parte de suas bancadas. A influência do partido além das preferências existe, porque o excesso de lealdade nas divergências com o Governo é positivo nos dois contrafactuais; sua magnitude, porém, depende de como se mede a preferência. A troca de partido mostra sinais tanto de seleção quanto de ajuste aos novos colegas.
 
@@ -486,7 +486,7 @@ McCARTY, Nolan; POOLE, Keith T.; ROSENTHAL, Howard. The Hunt for Party Disciplin
 
 MINOZZI, William; VOLDEN, Craig. Who Heeds the Call of the Party in Congress? *The Journal of Politics*, v. 75, n. 3, p. 787–802, 2013.
 
-NICOLAU, Jairo. Disciplina partidária e base parlamentar na Câmara dos Deputados no primeiro governo Fernando Henrique Cardoso (1995-1998). *Dados*, v. 43, n. 4, 2000. [verificar páginas]
+NICOLAU, Jairo. Disciplina partidária e base parlamentar na Câmara dos Deputados no primeiro governo Fernando Henrique Cardoso (1995-1998). *Dados*, v. 43, n. 4, p. 709–735, 2000. [verificar páginas]
 
 NOKKEN, Timothy P. Dynamics of Congressional Loyalty: Party Defection and Roll-Call Behavior, 1947–97. *Legislative Studies Quarterly*, v. 25, n. 3, p. 417–444, 2000.
 
@@ -511,9 +511,9 @@ Rodado da raiz do repositório, `python artigos/02-disciplina-intrapartidaria/an
 - `dados/leg57/*.parquet`;
 - os embeddings do projeto, usados só para a reconciliação do Apêndice C;
 - o cache de temas da API (`dados_aux/temas_proposicoes_votadas.csv`);
-- a codificação manual dos tipos de votação (`dados_aux/validacao_tipo_votacao.csv`).
+- as codificações feitas pelo assistente de IA para validar o classificador de tipo de votação (`dados_aux/validacao_tipo_votacao.csv`) e as associações fala→votação (`dados_aux/validacao_falas.csv`).
 
-Com isso, grava `resultados.json` (2.146 números), `tabelas/*.md` e `figuras/*.png`, e monta este `artigo.md` a partir de `artigo_fonte.md`: cada número do texto é uma referência a `resultados.json`. Os ajustes de pontos ideais ficam em cache em `dados_aux/cache/`, fora do git. Sem cache, a execução levou cerca de 11 minutos em 4 núcleos numa reexecução de verificação (Stage 2.5); com cache, 183 segundos. As sementes são fixas. Versões usadas: Python 3.13.18; numpy 2.5.3; pandas 3.0.5; scipy 1.18.1; scikit-learn 1.9.1; matplotlib 3.11.2.
+Com isso, grava `resultados.json` (2.146 números), `tabelas/*.md` e `figuras/*.png`, e monta este `artigo.md` a partir de `artigo_fonte.md`: cada número calculado no texto é uma referência a `resultados.json`; os poucos números escritos à mão (limiares, parâmetros de método) estão definidos no próprio texto ou no código. Os ajustes de pontos ideais ficam em cache em `dados_aux/cache/`, fora do git. Sem cache, a execução levou cerca de 11 minutos em 4 núcleos numa reexecução de verificação (Stage 2.5); com cache, 174 segundos. As sementes são fixas. Versões usadas: Python 3.13.18; numpy 2.5.3; pandas 3.0.5; scipy 1.18.1; scikit-learn 1.9.1; matplotlib 3.11.2.
 
 Dados e código estão no repositório do projeto. Este artigo é um de sete trabalhos do mesmo projeto sobre a 57ª Legislatura; os demais tratam de outras dimensões dos deputados (temas, frentes, discursos, trajetórias). O plano de análise está em `pipeline/stage1_blueprint.md`, a verificação de integridade em `pipeline/stage2_5_integridade.md` e a revisão por pares em `pipeline/stage3_revisao.md`.
 

diff --git a/artigos/02-disciplina-intrapartidaria/pipeline/stage4_5_integridade_final.md b/artigos/02-disciplina-intrapartidaria/pipeline/stage4_5_integridade_final.md
@@ -300,3 +300,88 @@ Todos conferem.
 **Aviso sobre ferramentas:** a checagem de originalidade (Fase D) usa buscas na web, é heurística e cobriu cerca de 10% dos parágrafos, abaixo dos 50% do protocolo. Ela não substitui Turnitin ou iThenticate. O risco é baixo porque o texto descreve análises originais de dados de 2023–2026, mas recomenda-se um verificador profissional antes da submissão. As referências sem busca nova nesta sessão (27/32) se apoiam nas trilhas registradas nos Stages 1, 2.5 e 4.
 
 **Arquivos da reexecução:** `/tmp/claude-0/-home-user-chamberofdeputiesBrazil/f52fda40-72cc-5ee2-acb5-2b134774c1a2/scratchpad/rep/` (cópia; nenhum arquivo do artigo foi editado).
+
+---
+---
+
+# Rodada 2 (commit `1da626c`)
+
+**Data:** 26/11/2026. **Escopo:** reverificar as correções da rodada 1 e procurar problemas introduzidos por elas (diff `3b4a7a4..1da626c` em `artigo_fonte.md`, `artigo.md`, `analise.py`, `referencias.bib` e `resultados.json`). Também refiz os pontos da rodada 1 que não estavam na lista de correções do coordenador. As marcas `[verificar]` continuam como notas abertas, por instrução do usuário.
+
+## Veredito da rodada 2: **FAIL** (0 P1; 10 P2, todos de texto ou forma)
+
+Os dois P1 foram resolvidos. O Modo 6 passa a CLEAR e o Modo 2 a CLEAR. Restam 10 P2. Dois deles foram **introduzidos pela correção**: a referência à figura errada no §5.1 e uma definição de "disciplina" que a medida D não satisfaz. Os outros oito são P2 da rodada 1 que não estavam na lista de correções. Como o Stage 4.5 exige zero problemas, o veredito formal continua FAIL. Nenhum P2 afeta número, direção ou conclusão. Com os 10 corrigidos, o esperado é **PASS WITH NOTES**, com as três notas `[verificar]`.
+
+## R2.1 Reprodução
+
+Reexecutei `analise.py` numa cópia nova, com o cache e sem figuras pré-existentes (173 s, código 0). Resultado:
+
+- `resultados.json`: 2.145/2.146 chaves idênticas; só `tempo_execucao_s` muda.
+- `tabelas/*.md`: 11/11 idênticas.
+- Figuras: 7/7 idênticas byte a byte, com os novos nomes (`fig1_serie_semestral.png`, `fig2_disciplina_unidade.png`). A pasta não tem arquivos antigos órfãos.
+- `artigo.md`: idêntico, exceto o tempo do Apêndice A.
+
+A mudança em `analise.py` está restrita aos dois nomes de arquivo em `savefig`.
+
+O novo texto do Apêndice A ("cerca de 11 minutos… numa reexecução de verificação (Stage 2.5)") confere com `stage2_5_integridade.md` (R2-P2-15: "668 s, ou cerca de 11 min, em 4 núcleos").
+
+## R2.2 Situação dos problemas da rodada 1
+
+| Rodada 1 | Situação | Evidência (`artigo.md` em `1da626c`) |
+|---|---|---|
+| P1-1 codificação por IA | **Resolvido no §3**; resíduo no Apêndice A → R2-2 | §3: "…codificadas pelo assistente de IA que conduziu a análise, a partir da leitura das descrições, sem segundo codificador"; nas falas: "feita pelo mesmo assistente de IA…, sem segundo codificador". O Apêndice A (l. 514) ainda diz "a codificação manual dos tipos de votação" |
+| P1-2 Carey / Nokken | **Resolvido** | "ponderar pela disputa" ficou sem atribuição. "Carey (2007; 2009) mostra que a unidade de voto é menor onde 'principais concorrentes'…" está dentro do verificado (resumo AJPS; eScholarship). "Como em Nokken (2000)" foi retirado. A atribuição da distinção a Krehbiel (1993) confere com o argumento verificado no Stage 1 ("só há efeito partidário quando o legislador vota com o partido apesar de discordar"). Ver, porém, R2-3 |
+| P2-1 órfãs | **Resolvido** | Lista com 31 entradas e .bib com 31 entradas; as 31 obras citadas batem 1:1; 0 órfãs, 0 citações sem entrada |
+| P2-2 legenda da Fig. 1 (agora Fig. 2) | **Resolvido**; resíduo do corte do PSDB → R2-6 | Legenda: "bootstrap em duas vias (votações e deputados)". `fig_disciplina` mantém `set_xlim(76, …)`, e o limite inferior de D do PSDB (75,8) continua cortado |
+| P2-3 ordem das figuras | **Resolvido** | Fig. 1 (série) é citada no §5.1 e mostrada antes da Fig. 2 (§5.2). As Figuras 1–7 aparecem em ordem; cada `![Figura n]` aponta para o arquivo certo |
+| P2-4 M3emb no Método | **Resolvido** | O §4.3 não menciona mais M3emb. O Apêndice B o explica ao dizer que foi retirado; a linha da tabela "M3emb acrescentados" é aceitável nesse contexto |
+| P2-5 Nicolau, páginas na lista × .bib | **Não tratado** → R2-7 | A lista diz "[verificar páginas]"; o .bib tem `pages = {709--735}` |
+| P2-6 "menos de 2%" | **Corrigido de forma errada** → R2-1 | O texto diz "(Figura 1, coluna à direita)". A coluna com a % de orientação própria está na **Figura 2** (por partido); a Figura 1 é a série semestral |
+| P2-7 NOVO sem U | **Resolvido** | "…NOVO votam quase sempre com a liderança, e os três primeiros, também com os colegas (NOVO não tem U)" |
+| P2-8 generalizações | **Resolvido no Resumo, no Abstract e no §9; resíduo no §8** → R2-4 | Resumo: "cai em quatro partidos de centro (PSD, MDB, PP e União)", e o Abstract diz o mesmo (os dois continuam equivalentes). §9: "no período do megabloco de 2025, quase sempre nada" (199/227 ✓). O §8 ainda diz "uma disciplina 'medida' que sobe justamente quando **a unidade dos partidos de centro cai**" |
+| P2-9 heterogeneidade | **Resolvido** | "uma hipótese, que não testamos, é que essa heterogeneidade permita…" |
+| P2-10 Apêndice A | **Parcial** → R2-8 | O tempo a frio agora tem fonte. Continuam "cada número do texto é uma referência a `resultados.json`" e a lista de entradas sem `discursos.parquet` e `validacao_falas.csv` |
+| P2-11 detalhes do Método | **Não tratado** → R2-9 | IC geral de D só por votações; λ_d = 4; penalizações e estimação em duas etapas de M2b |
+| P2-12 "ao longo do ano anterior" | **Não tratado** → R2-5 | §5.7 sem alteração |
+| P2-13 megabloco "para a eleição da Mesa" | **Resolvido** | "formado em fevereiro de 2025, no início do biênio da nova Mesa": a data é coerente com os dados (`megabloco_data_ini` = 2025-02-11), e a frase não afirma mais a finalidade do bloco |
+| P2-14 controles da coorte | **Não tratado** → R2-10 | 4 deputados com troca só antes de 01/04/2023 continuam entre os "nunca trocaram" (efeito desprezível) |
+
+## R2.3 Procura de problemas introduzidos pelas mudanças
+
+- **Referências cruzadas de figuras:** conferi as 13 menções "Figura n" e os 7 blocos de imagem. Há um erro: §5.1, "(Figura 1, coluna à direita)" (R2-1). Os demais estão certos: §5.1 → Fig. 1 (cobertura de D); §5.2 → Tabela 2 e Fig. 2; Figs. 3–7.
+- **Definição nova de disciplina (§2):** "distinguimos *unidade* (votar junto) de *disciplina* (votar com o líder contra a própria preferência)". A medida D, chamada "disciplina à liderança" em todo o artigo, é a adesão à orientação **independentemente** da preferência (§4.1). Com a nova definição, D passa a medir algo diferente do conceito que leva o mesmo nome. Só o excesso de lealdade da §5.8 se aproxima do componente "contra a preferência" (R2-3).
+- **Resumo × Abstract:** continuam equivalentes frase a frase, inclusive a nova lista de quatro partidos.
+- **Números:** nenhum marcador foi acrescentado ou retirado de forma que mude valores. Renderizei de novo os marcadores com o `resultados.json` de `1da626c`, e o resultado é idêntico ao `artigo.md` versionado.
+- **Bibliografia:** a remoção de `poole1997` e `kam2009` não deixou citação pendente: "McCarty, Poole e Rosenthal (2001)" aponta para `mccarty2001`.
+
+## R2.4 Checklist dos 7 modos (rodada 2)
+
+| Modo | Resultado | Evidência | Bloqueia? |
+|---|---|---|---|
+| 1 | CLEAR | Reprodução idêntica (R2.1); o diff do código só troca nomes de arquivos | não |
+| 2 | CLEAR | As 31 obras existem; as atribuições a Carey e a Krehbiel estão dentro do verificado; Nokken retirado | não |
+| 3 | CLEAR | Marcadores e reexecução idênticos | não |
+| 4 | CLEAR | Sem mudança | não |
+| 5 | CLEAR | Sem mudança | não |
+| 6 | **CLEAR** (antes SUSPECTED) | O §3 declara que as duas codificações foram feitas pelo assistente de IA, sem segundo codificador. O "codificação manual" que sobra no Apêndice A é um resíduo de redação (R2-2), não uma descrição falsa do procedimento no Método | não |
+| 7 | CLEAR | Sem mudança | não |
+
+## R2.5 Lista de problemas (rodada 2)
+
+| ID | Origem | Local | Problema | Correção sugerida |
+|---|---|---|---|---|
+| R2-1 | **novo** | §5.1, 1º parágrafo | "menos de 2%… (Figura 1, coluna à direita)": a coluna está na Figura 2 | "(Figura 2, coluna à direita)" |
+| R2-2 | resíduo de P1-1 | Apêndice A, lista de entradas | "a codificação manual dos tipos de votação" | "a codificação dos tipos de votação pelo assistente de IA (`dados_aux/validacao_tipo_votacao.csv`) e a conferência das falas (`dados_aux/validacao_falas.csv`)" |
+| R2-3 | **novo** | §2, "Disciplina, coesão e agenda" | A definição de disciplina como "votar com o líder contra a própria preferência" não é o que D mede | Acrescentar: "D mede a adesão à orientação, sem separar disciplina de concordância; o componente contra a preferência só é aproximado pelo excesso de lealdade (§5.8)". Ou definir disciplina como adesão à orientação e atribuir a Krehbiel apenas a ressalva |
+| R2-4 | resíduo de P2-8 | §8, 1º parágrafo | "a unidade dos partidos de centro cai" | "a unidade de quatro partidos de centro cai" |
+| R2-5 | P2-12 | §5.7, "Antes da troca" | "sobem 3,1 pontos ao longo do ano anterior à troca" | "entre a janela de 13 meses ou mais antes da troca e os três meses anteriores, as estimativas pontuais sobem 3,1 pontos" |
+| R2-6 | resíduo de P2-2 | Fig. 2; `fig_disciplina` | IC de D do PSDB cortado em 76 | `ax.set_xlim(74, 100.5)` |
+| R2-7 | P2-5 | Referências: Nicolau (2000) | A lista não tem páginas; o .bib tem 709–735 | Harmonizar (remover `pages` do .bib, ou "p. 709–735 [verificar]" na lista) |
+| R2-8 | P2-10 | Apêndice A | "cada número do texto é uma referência a `resultados.json`" (há números escritos à mão); entradas omitidas | "cada resultado do texto…"; acrescentar `discursos.parquet` e `validacao_falas.csv` |
+| R2-9 | P2-11 | §4.1–§4.3 | O IC geral de D é só por votações, sem dizer; λ_d = 4; M2b estimado em duas etapas (λ_r = 1, λ_s = 0,04) | Uma frase em cada ponto |
+| R2-10 | P2-14 | §4.4 (coorte de 2026) | 4 deputados com troca antes de 01/04/2023 entre os "nunca trocaram" | "que não trocaram desde abril de 2023", ou excluí-los |
+
+## R2.6 Marcas `[verificar]` e afirmações sem marca
+
+- **Notas abertas, mantidas por instrução do usuário:** páginas e DOI de Nicolau (2000); lista completa dos instrumentos em Figueiredo e Limongi (1999); datas finas da base ministerial.
+- **Afirmações não verificadas sem marca:** as da rodada 1 foram resolvidas (Carey, Nokken, finalidade do megabloco, tempo a frio). Não encontrei outra afirmação não verificada sem marca no texto alterado. A nova frase sobre Krehbiel está dentro do argumento verificado, mas tem o problema conceitual de R2-3.
